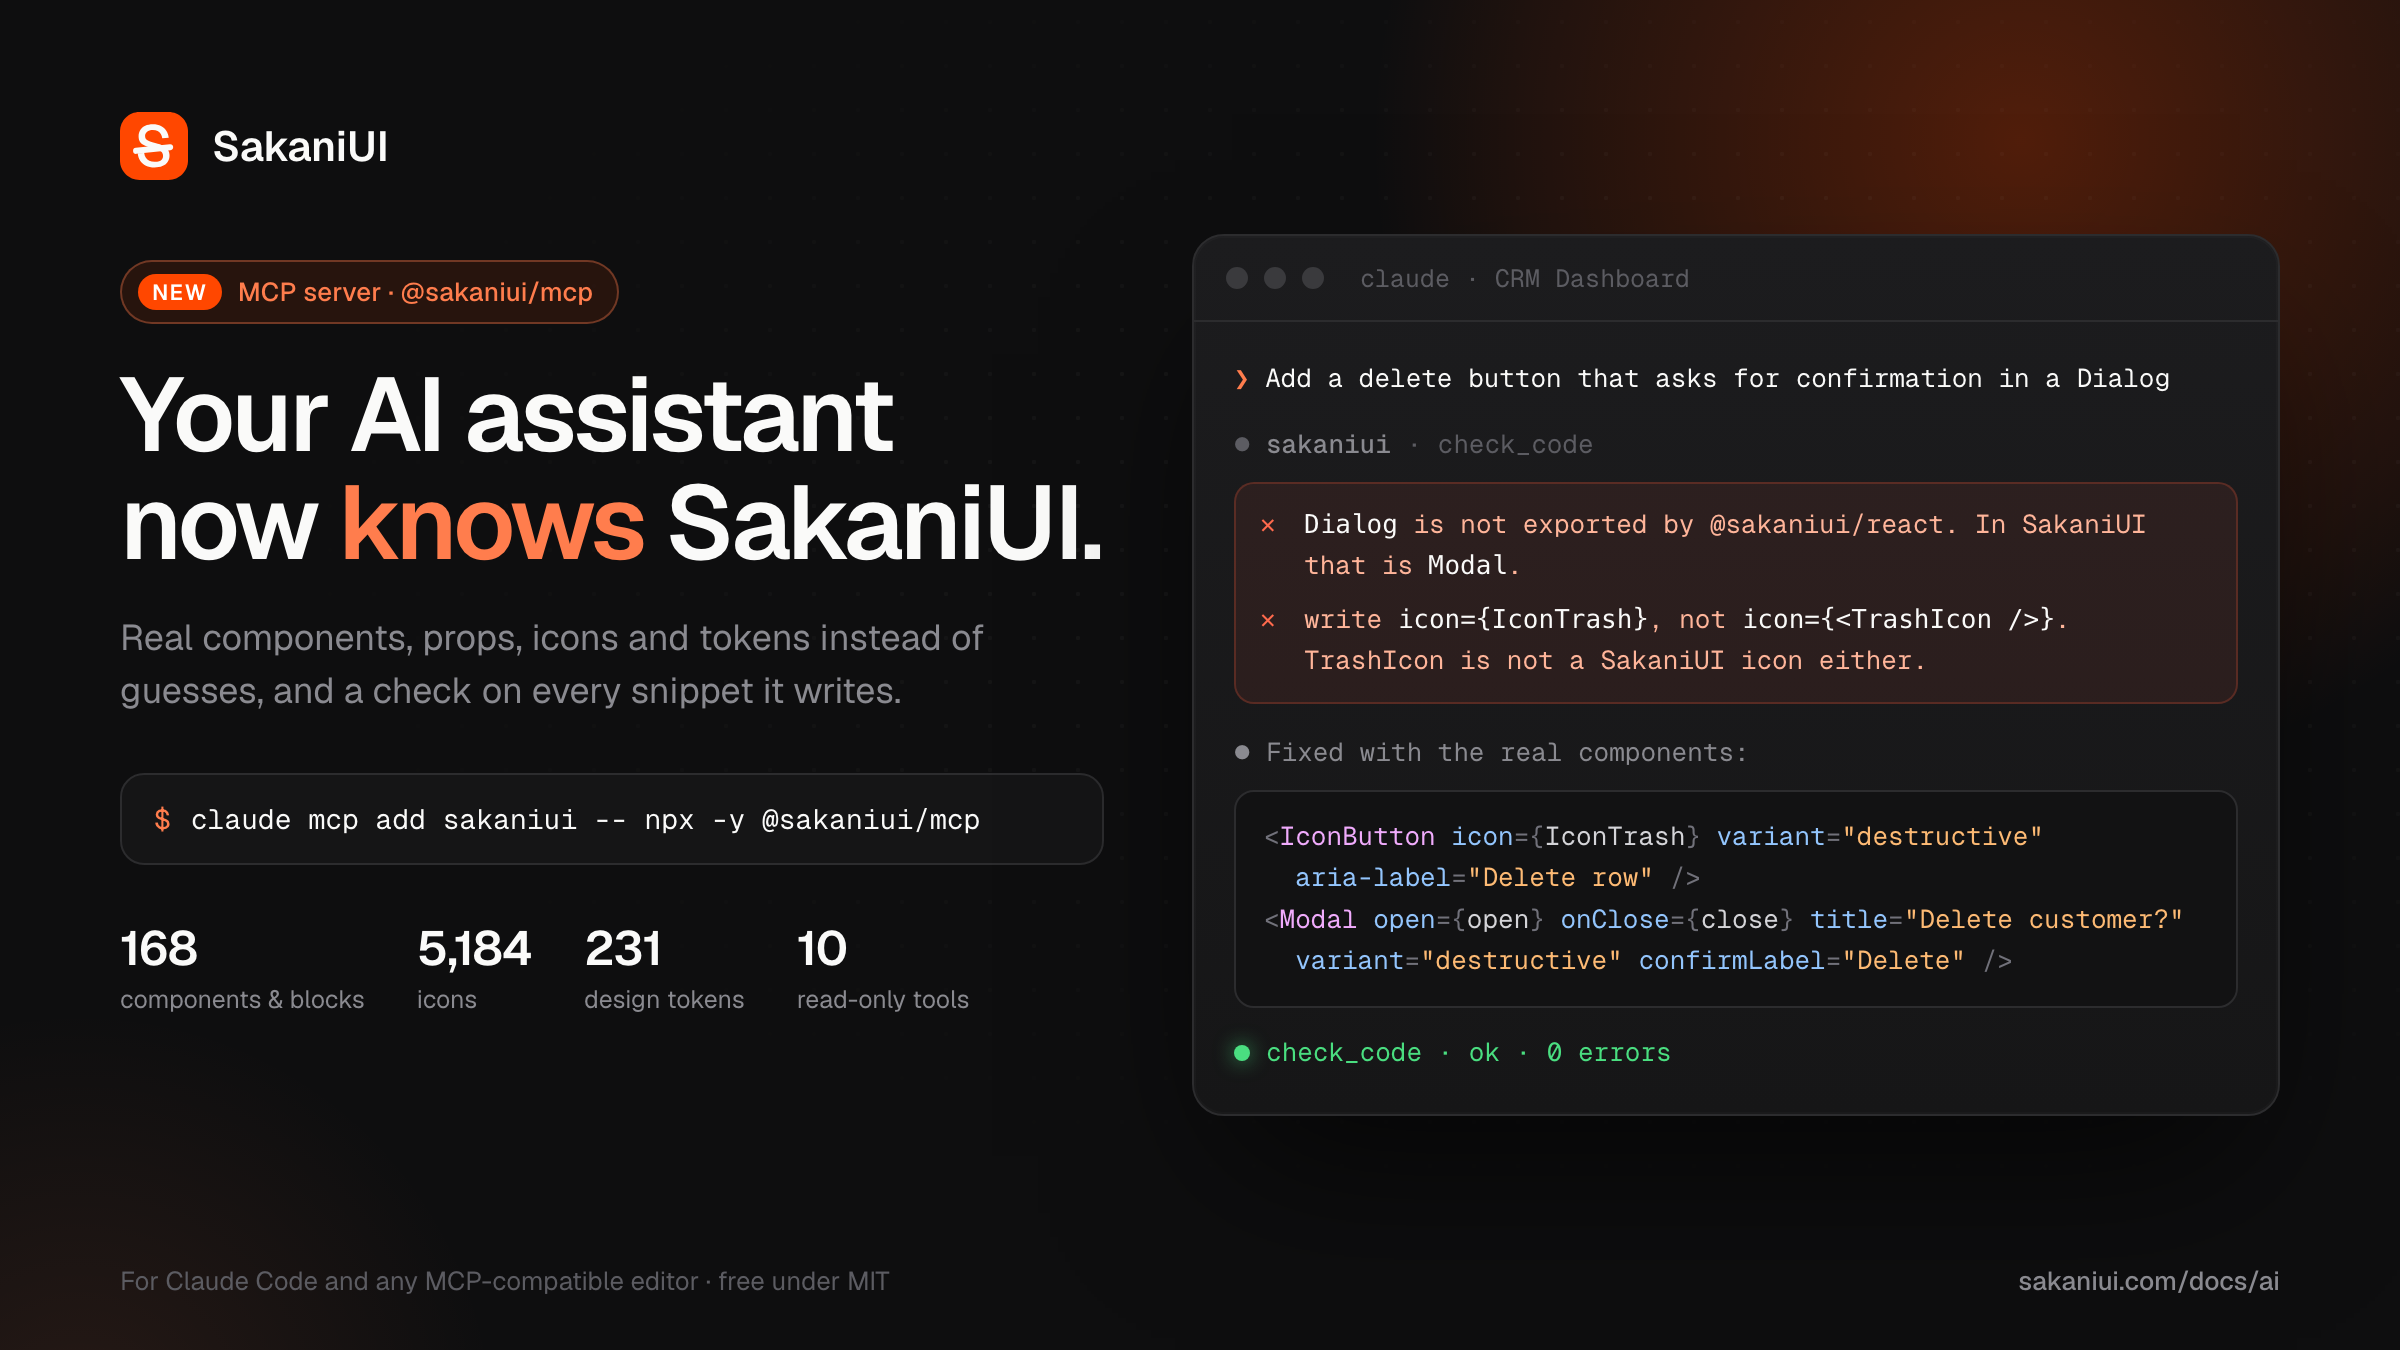
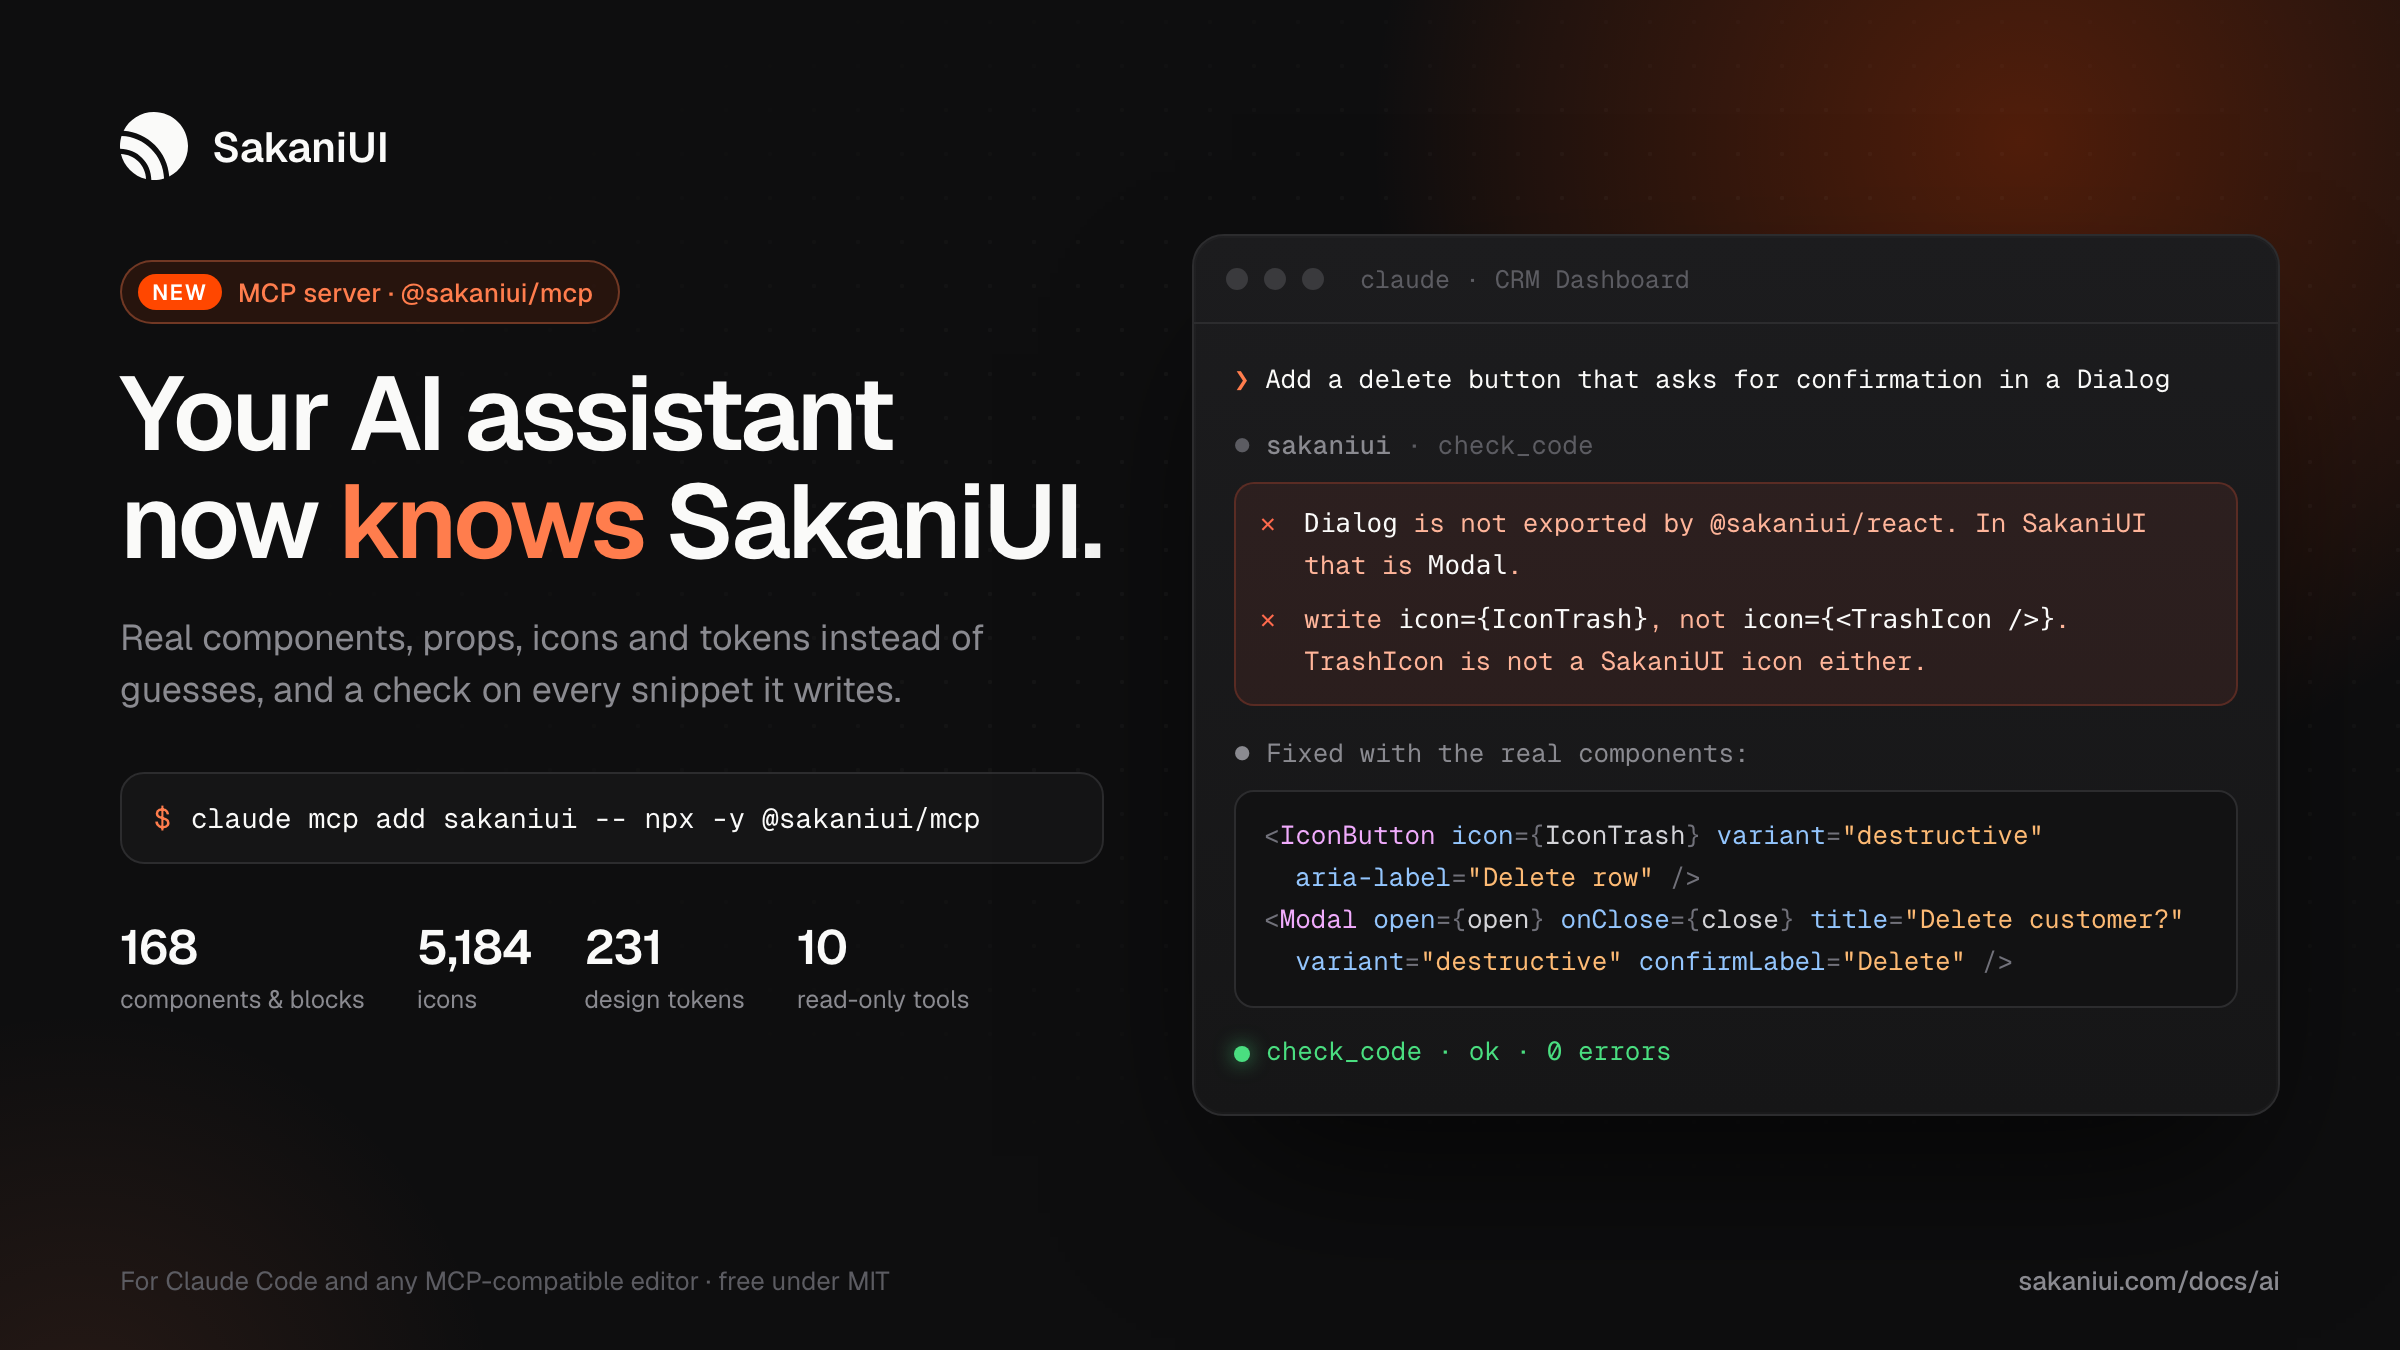
feat: new SakaniUI arc mark across the site
Header, mobile nav, tab icons (svg, ico, apple touch) and the marketing
cards now use the arc mark. marketing/brand/brand.html renders every
raster copy, including the LinkedIn logo and covers in marketing/linkedin.

diff --git a/src/components/icons/sakani-logo.tsx b/src/components/icons/sakani-logo.tsx
@@ -1,49 +1,38 @@
 /**
- * The Sakani mark.
+ * The SakaniUI arc mark: a disc cut by two arcs that sweep out from the
+ * lower-left corner. Traced from the Figma component "Logo / SakaniUI arc
+ * mark" (64x64 grid).
  *
- * Colours are inverted from the source file: that one is a near-white tile
- * with a dark glyph, and the brand treatment is the reverse -- a brand-orange
- * tile carrying the light glyph, which is what the header has always shown
- * and what the OG card and favicon need to match.
+ * Painted with fg/default, so it follows the theme: near-black on light,
+ * near-white on dark. That is the whole brand treatment; there is no tile
+ * behind it. (app/icon.svg and the OG card carry literal hex instead, since
+ * neither is rendered anywhere the stylesheet reaches.)
  *
- * Painted from the tokens rather than hex, so it follows a rebrand of
- * --color-brand-default, which is one of the few tokens defined to hold its
- * value across both themes precisely so the mark stays recognisable.
- *
- * The glyph uses the neutral-50 primitive rather than fg-on-accent, which
- * would be the semantically obvious choice and is wrong here: fg-on-accent
- * flips to neutral-900 in dark mode, because `accent` itself inverts. This
- * tile is always brand orange, so its glyph must always be light, and a
- * primitive is the thing that doesn't move. (app/icon.svg and the OG card
- * carry literal hex instead, since neither is rendered anywhere the
- * stylesheet reaches.)
+ * The data-sakani-logo attribute lets SidebarHeader drop its accent tile
+ * when the mark is used as a sidebar logo in the docs examples.
  */
+const PATHS = [
+  "M1.42578 22.5264C23.2117 23.2619 40.7366 40.7874 41.4727 62.5732C38.4791 63.4997 35.298 64 32 64C31.158 64 30.3237 63.9662 29.498 63.9023C29.4455 47.6871 16.3121 34.553 0.0966797 34.501C0.0328793 33.6757 0 32.8417 0 32C0 28.7018 0.499182 25.5201 1.42578 22.5264Z",
+  "M0.889648 39.5176C13.7129 39.9753 24.0232 50.2863 24.4814 63.1094C12.8474 60.3077 3.69089 51.1518 0.889648 39.5176Z",
+  "M32 0C49.6731 0 64 14.3269 64 32C64 44.5026 56.8286 55.3282 46.376 60.5938C44.7132 37.6274 26.3718 19.2853 3.40527 17.623C8.6709 7.17063 19.4975 0 32 0Z",
+];
+
 export function SakaniLogo({ size = 28, className }: { size?: number; className?: string }) {
   return (
     <svg
       width={size}
       height={size}
-      viewBox="0 0 28 28"
+      viewBox="0 0 64 64"
       fill="none"
       xmlns="http://www.w3.org/2000/svg"
       className={className}
       role="img"
       aria-label="SakaniUI"
+      data-sakani-logo=""
     >
-      <path
-        d="M0 8C0 3.58172 3.58172 0 8 0H20C24.4183 0 28 3.58172 28 8V20C28 24.4183 24.4183 28 20 28H8C3.58172 28 0 24.4183 0 20V8Z"
-        fill="var(--color-brand-default, #FF4700)"
-      />
-      <path
-        d="M6.63704 15.9944L20.6362 14.491"
-        stroke="var(--color-neutral-50, #FAFAF9)"
-        strokeWidth="2.5"
-        strokeLinecap="round"
-      />
-      <path
-        d="M14.208 22.884C12.848 22.884 11.664 22.636 10.656 22.14C9.664 21.644 8.88 20.956 8.304 20.076C7.728 19.196 7.392 18.172 7.296 17.004L9.96 16.836C10.072 17.636 10.304 18.316 10.656 18.876C11.008 19.42 11.48 19.836 12.072 20.124C12.68 20.396 13.408 20.532 14.256 20.532C14.992 20.532 15.616 20.444 16.128 20.268C16.656 20.076 17.056 19.796 17.328 19.428C17.6 19.06 17.736 18.612 17.736 18.084C17.736 17.604 17.616 17.18 17.376 16.812C17.152 16.428 16.712 16.084 16.056 15.78C15.416 15.46 14.472 15.148 13.224 14.844C11.864 14.508 10.776 14.14 9.96 13.74C9.144 13.34 8.552 12.844 8.184 12.252C7.832 11.644 7.656 10.9 7.656 10.02C7.656 9.044 7.888 8.188 8.352 7.452C8.832 6.7 9.512 6.116 10.392 5.7C11.272 5.284 12.328 5.076 13.56 5.076C14.856 5.076 15.96 5.316 16.872 5.796C17.8 6.276 18.528 6.932 19.056 7.764C19.6 8.596 19.936 9.548 20.064 10.62L17.4 10.764C17.32 10.108 17.12 9.532 16.8 9.036C16.48 8.524 16.048 8.132 15.504 7.86C14.96 7.572 14.296 7.428 13.512 7.428C12.52 7.428 11.736 7.66 11.16 8.124C10.6 8.572 10.32 9.172 10.32 9.924C10.32 10.404 10.432 10.812 10.656 11.148C10.896 11.468 11.312 11.748 11.904 11.988C12.512 12.228 13.368 12.484 14.472 12.756C15.944 13.092 17.112 13.508 17.976 14.004C18.856 14.484 19.48 15.052 19.848 15.708C20.216 16.364 20.4 17.108 20.4 17.94C20.4 18.948 20.136 19.828 19.608 20.58C19.096 21.316 18.376 21.884 17.448 22.284C16.52 22.684 15.44 22.884 14.208 22.884Z"
-        fill="var(--color-neutral-50, #FAFAF9)"
-      />
+      {PATHS.map((d) => (
+        <path key={d} d={d} fill="var(--color-fg-default, #141414)" />
+      ))}
     </svg>
   );
 }

diff --git a/marketing/brand/brand.html b/marketing/brand/brand.html
@@ -1,0 +1,66 @@
+<!doctype html>
+<html>
+<head>
+<meta charset="utf-8">
+<title>SakaniUI brand renders</title>
+<link rel="preconnect" href="https://fonts.googleapis.com">
+<link rel="preconnect" href="https://fonts.gstatic.com" crossorigin>
+<link href="https://fonts.googleapis.com/css2?family=Geist:wght@400;500&display=block" rel="stylesheet">
+<!--
+  Source for every raster copy of the SakaniUI arc mark (Figma "Logo / SakaniUI
+  arc mark", 64x64 grid). Render with ../../scratch render script, e.g.
+    ?kind=tile&size=180            apple-icon.png (full bleed; iOS rounds it)
+    ?kind=tile&size=48&radius=11   favicon.ico frames (rounded tile)
+    ?kind=tile&size=400            LinkedIn logo
+    ?kind=banner&w=1128&h=191      LinkedIn company page cover
+    ?kind=banner&w=1584&h=396      LinkedIn profile background
+-->
+<style>
+  * { margin: 0; padding: 0; box-sizing: border-box; }
+  html, body { background: transparent; overflow: hidden; -webkit-font-smoothing: antialiased; }
+  .tile { display: grid; place-items: center; background: #141414; }
+  .tile svg path { fill: #FAFAF9; }
+  .banner { position: relative; background: #0e0e0f; color: #fafaf9; font-family: 'Geist', system-ui, sans-serif; display: flex; align-items: center; overflow: hidden; }
+  .banner::before { content: ''; position: absolute; inset: 0; background: radial-gradient(60% 120% at 85% 50%, rgba(250,250,249,0.06), transparent 70%); }
+  .lockup { display: flex; align-items: center; }
+  .lockup svg path { fill: #FAFAF9; }
+  .word { font-weight: 500; letter-spacing: -0.01em; white-space: nowrap; }
+  .word span { color: #a8a29b; }
+  .tag { color: #a8a29b; font-weight: 400; margin-top: 0.35em; }
+  .url { position: absolute; color: #78716a; font-weight: 500; letter-spacing: 0.01em; }
+</style>
+</head>
+<body>
+<script>
+  const MARK = '<svg viewBox="0 0 64 64" width="100%" height="100%" xmlns="http://www.w3.org/2000/svg">'
+    + '<path d="M1.42578 22.5264C23.2117 23.2619 40.7366 40.7874 41.4727 62.5732C38.4791 63.4997 35.298 64 32 64C31.158 64 30.3237 63.9662 29.498 63.9023C29.4455 47.6871 16.3121 34.553 0.0966797 34.501C0.0328793 33.6757 0 32.8417 0 32C0 28.7018 0.499182 25.5201 1.42578 22.5264Z"/>'
+    + '<path d="M0.889648 39.5176C13.7129 39.9753 24.0232 50.2863 24.4814 63.1094C12.8474 60.3077 3.69089 51.1518 0.889648 39.5176Z"/>'
+    + '<path d="M32 0C49.6731 0 64 14.3269 64 32C64 44.5026 56.8286 55.3282 46.376 60.5938C44.7132 37.6274 26.3718 19.2853 3.40527 17.623C8.6709 7.17063 19.4975 0 32 0Z"/></svg>';
+  const q = new URLSearchParams(location.search);
+  const kind = q.get('kind') || 'tile';
+  const el = document.createElement('div');
+  if (kind === 'tile') {
+    const size = +(q.get('size') || 180);
+    // Figma "App icon tile": the mark at 40 of 64 units, centred.
+    Object.assign(el.style, { width: size + 'px', height: size + 'px', borderRadius: (q.get('radius') || 0) + 'px' });
+    el.className = 'tile';
+    el.innerHTML = `<div style="width:${size * 0.625}px;height:${size * 0.625}px">${MARK}</div>`;
+  } else {
+    const w = +(q.get('w') || 1128), h = +(q.get('h') || 191);
+    const u = h / 191; // everything scales from the company-cover height
+    Object.assign(el.style, { width: w + 'px', height: h + 'px', paddingLeft: Math.round(w * 0.36) + 'px' });
+    el.className = 'banner';
+    el.innerHTML = `
+      <div style="position:relative">
+        <div class="lockup" style="gap:${14 * u}px">
+          <div style="width:${44 * u}px;height:${44 * u}px">${MARK}</div>
+          <div class="word" style="font-size:${34 * u}px">SakaniUI <span>Components</span></div>
+        </div>
+        <div class="tag" style="font-size:${15 * u}px;margin-left:${58 * u}px">React components and blocks that match your Figma file, light and dark.</div>
+      </div>
+      <div class="url" style="right:${28 * u}px;bottom:${20 * u}px;font-size:${12 * u}px">sakaniui.com</div>`;
+  }
+  document.body.appendChild(el);
+</script>
+</body>
+</html>

diff --git a/src/app/page.tsx b/src/app/page.tsx
@@ -83,7 +83,7 @@ export default function HomePage() {
                 href="/docs"
                 className="inline-flex shrink-0 items-center gap-1.5 rounded-full border border-line-subtle px-3 py-1 text-xs font-medium text-ink-muted transition-colors hover:border-line-default hover:text-ink"
               >
-                Last updated: October 28th <ArrowRight size={12} />
+                Last updated: October 29th <ArrowRight size={12} />
               </Link>
             </span>
           </MaskReveal>
